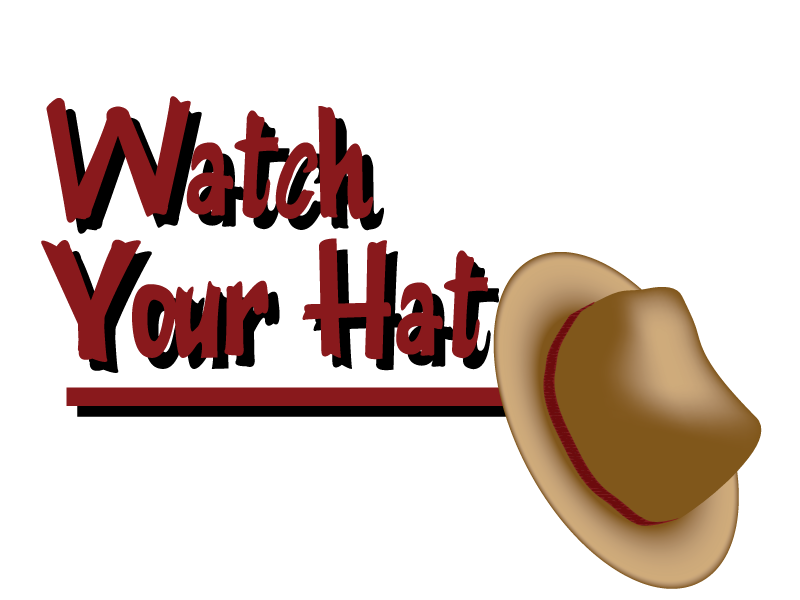
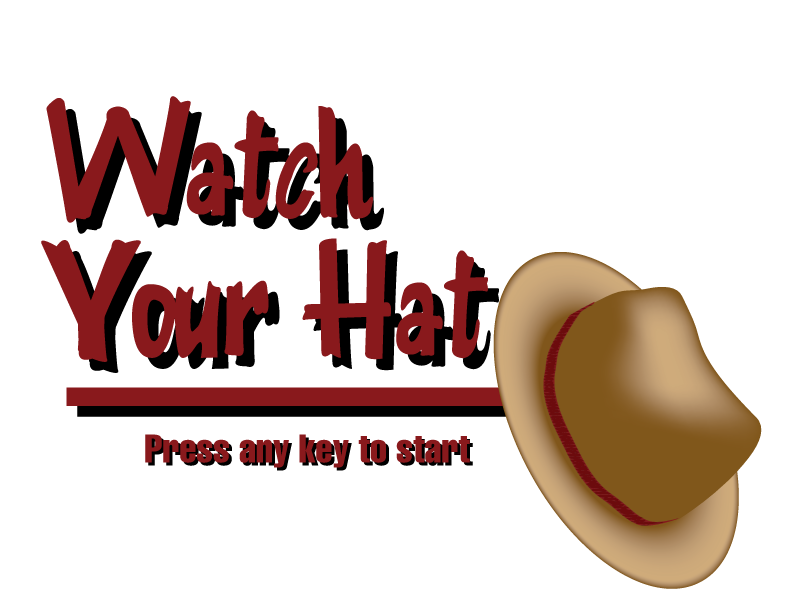
Tweaked title

Changed region(s): [[0.1562, 0.72, 0.5938, 0.78]]

diff --git a/main.py b/main.py
@@ -386,7 +386,7 @@ while True:
     elif gameStarted:
         titleTimeout -= dT
         title.image.set_alpha(titleTimeout/2000*255)
-    elif any(buttons.values()):
+    elif any(buttons.values()) or any(keys.values()):
         gameStarted = True
         gui.add(gem)
         gui.add(moneyText)
